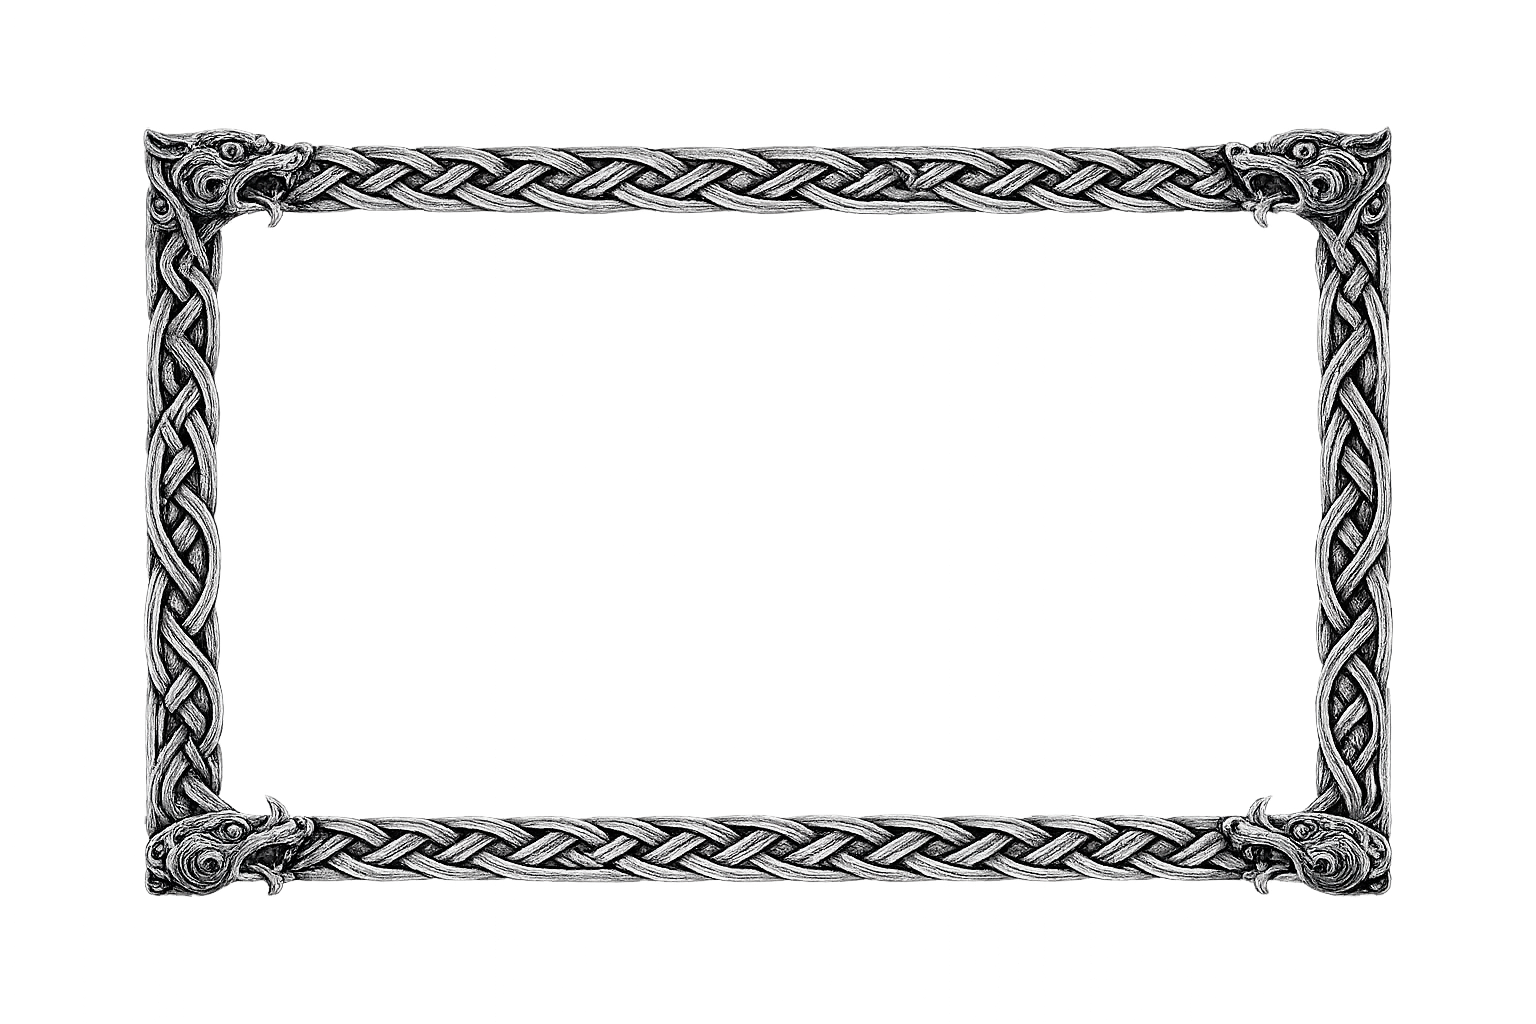
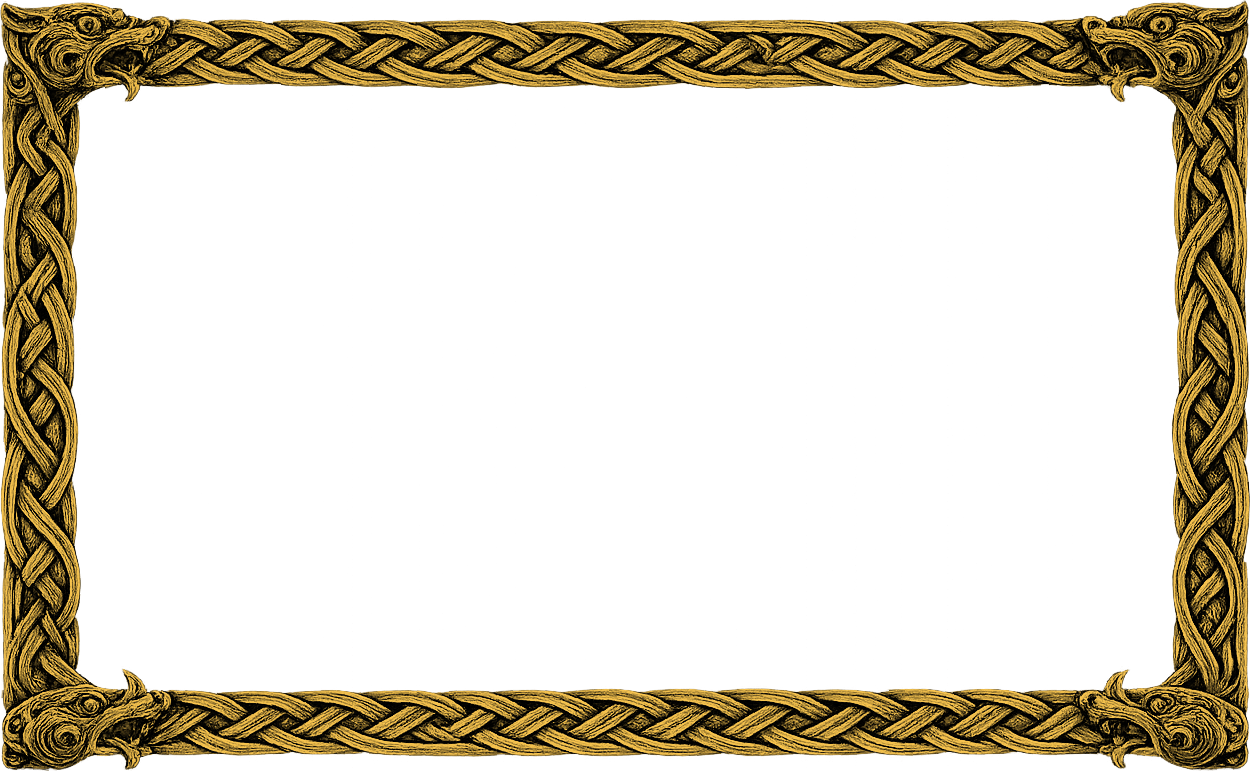
Erstatt tynne panel-kanter med flettede rammer
De viktigste panelene hadde jevne rektangler med en tynn gull-strek (litt KI-aktig).
Nå rammes de inn av ekte flettverk med dragehjørner via ramme-panel.png (border-image),
så den perfekte firkanten brytes.

- Ny .viking-frame (border-image av ramme-panel.png, slice 87/70/80/72, repeat round;
  tynnere border-width på mobil).
- Brukt på Kulturforståelse-kortet, Varer ombord og Svenneprøver (de viktige); de mindre
  panelene beholdt lette for bevisst hierarki, ikke rot.
- ramme-panel.png beskåret til selve flettverket og gull-tonet så den matcher paletten.

Verifisert i nettleser (desktop + mobil): rammene sitter rundt panelene, dragehjørnene
bryter firkanten, innholdet får plass og er lesbart.

diff --git a/src/index.css b/src/index.css
@@ -95,6 +95,20 @@ code {
   .animate-bob, .animate-wave, .animate-wave-slow, .aurora, .animate-rise { animation: none; }
 }
 
+/* === Flettet panelramme (ramme-panel.png via border-image) =========================
+   Erstatter den tynne gull-kanten rundt viktige paneler med ekte flettverk + dragehjørner,
+   så den perfekte firkanten brytes. Senteret er transparent → panelets egen bakgrunn vises. */
+.viking-frame {
+  border-style: solid;
+  border-width: 30px 24px 28px 24px;
+  border-image-source: url('/ornamenter/ramme-panel.png');
+  border-image-slice: 87 70 80 72;
+  border-image-repeat: round;
+}
+@media (max-width: 640px) {
+  .viking-frame { border-width: 22px 18px 20px 18px; }
+}
+
 /* === Norrøn estetikk: teksturer og graveringer ===================================== */
 
 /* Subtil pergament/lærtekstur — påføres paneler og kort som skal se håndlaget ut.

diff --git a/src/components/dashboard/GameDashboard.tsx b/src/components/dashboard/GameDashboard.tsx
@@ -777,7 +777,7 @@ export default function GameDashboard({ setup, session, onResetSetup, onLeaveGam
             sekundærtallene står mindre ved siden av. Ikke en jevn 3-kolonners grid. */}
         <div className="mb-4 flex flex-col gap-3 sm:flex-row sm:items-stretch">
           {/* Hero: Kulturforståelse — spillets pedagogiske kjerne, størst vekt, venstrejustert */}
-          <div className="relative flex-1 overflow-hidden rounded-lg border-2 border-viking-gold/70 bg-viking-surface p-5 sm:flex-[1.8]" data-testid="stat-hero">
+          <div className="viking-frame relative flex-1 overflow-hidden bg-viking-surface p-5 sm:flex-[1.8]" data-testid="stat-hero">
             <span aria-hidden className="pointer-events-none absolute -right-5 -top-4 text-viking-gold/10">
               <NorseIcon name="ikon-kultur" size={132} />
             </span>

diff --git a/src/components/dashboard/SvennepoverPanel.tsx b/src/components/dashboard/SvennepoverPanel.tsx
@@ -46,7 +46,7 @@ export default function SvennepoverPanel({ destinations, unlockedSides, isChief,
   const passedCount = rows.filter((r) => r.passed).length;
 
   return (
-    <div className="mb-4 rounded-lg border-2 border-viking-gold/60 bg-viking-darkblue/40 p-3" data-testid="svenneprover-panel">
+    <div className="viking-frame mb-4 bg-viking-darkblue/40 p-3" data-testid="svenneprover-panel">
       <div className="mb-2 flex items-baseline justify-between">
         <h3 className="inline-flex items-center gap-2 font-cinzel text-sm text-viking-gold"><NorseIcon name="ikon-svenneprove" size={16} /> Svenneprøver</h3>
         <p className="font-mono text-[10px] text-viking-gold-soft/80">{passedCount}/{rows.length} bestått</p>

diff --git a/src/components/dashboard/TradeGoodsPanel.tsx b/src/components/dashboard/TradeGoodsPanel.tsx
@@ -18,7 +18,7 @@ export default function TradeGoodsPanel({ goods }: Props) {
   const total = ORDER.reduce((sum, g) => sum + (goods[g] ?? 0), 0);
 
   return (
-    <div className="rounded-lg border-2 border-viking-gold/40 bg-viking-surface p-3" data-testid="trade-goods-panel">
+    <div className="viking-frame bg-viking-surface p-3" data-testid="trade-goods-panel">
       <div className="mb-2 flex items-baseline justify-between">
         <p className="font-cinzel text-sm text-viking-gold-soft">Varer ombord</p>
         <p className="font-mono text-xs text-viking-gold-soft/80">{total} {total === 1 ? 'enhet' : 'enheter'}</p>